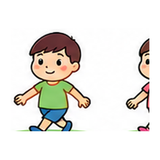
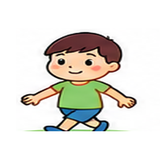
Add asco activity; fix caminar and taparme_nariz crops
- asco.html ("Puaj o me gusta"): its 4 coping actions (agua,
  lugar_tranquilo, taparme_nariz, olor_rico) now use the real M/F/N
  illustrations, same treatment as the other activities.
- Fixed the source crop for caminar (all 3 variants) and taparme_nariz
  (all 3): both had bleed-through from neighboring cells in the
  original sprite sheet. Re-cropped tighter around the actual figure,
  salvaging the girl and neutral variants of caminar from a wider
  frame that happened to contain both intact. caminar no longer needs
  the emoji fallback in enojo.html.
- olor_rico still shows the same neutral drawing for all 3 genders
  (never had real M/F art) - low severity since it always shows a
  valid image, just no visual variety by sex.

diff --git a/emociones-app/activities/asco.html b/emociones-app/activities/asco.html
@@ -1,0 +1,350 @@
+<!DOCTYPE html>
+<html lang="es">
+<head>
+<meta charset="UTF-8" />
+<meta name="viewport" content="width=device-width, initial-scale=1.0" />
+<title>Actividad: Puaj o me gusta</title>
+
+
+<style>
+  :root {
+    --fondo:        #FFF6EC;
+    --tarjeta:      #FFFFFF;
+    --texto:        #3A2A22;
+    --texto-suave:  #8A7266;
+    --asco:         #7FAE3E;   /* verde del asco */
+    --gusto:        #E8799B;   /* rosado del "me gusta" */
+    --calma:        #1D9E75;
+    --calma-suave:  #E1F5EE;
+    --borde:        #F0E3D6;
+  }
+  * { box-sizing: border-box; }
+  body {
+    margin: 0; min-height: 100vh;
+    display: flex; align-items: center; justify-content: center;
+    background: var(--fondo);
+    font-family: 'Nunito', sans-serif; color: var(--texto);
+    padding: 16px;
+  }
+  .tarjeta {
+    width: 100%; max-width: 460px;
+    background: var(--tarjeta);
+    border-radius: 28px; border: 2px solid var(--borde);
+    padding: 26px 22px 30px; text-align: center;
+  }
+  .titulo {
+    font-family: 'Fredoka', sans-serif; font-weight: 600;
+    font-size: 25px; margin: 0 0 6px;
+  }
+  .consigna {
+    font-size: 16px; color: var(--texto-suave);
+    margin: 0 0 8px; min-height: 44px; transition: color 0.3s;
+  }
+  .escena {
+    position: relative;
+    width: 260px; height: 260px; margin: 4px auto 0;
+    display: flex; flex-direction: column; align-items: center; justify-content: center;
+    gap: 12px;
+  }
+  .progreso {
+    position: absolute; top: 4px; right: 8px;
+    font-family: 'Fredoka', sans-serif; font-size: 13px; color: var(--texto-suave);
+  }
+  /* Caja donde aparece la cosa a puntuar (el color de fondo reacciona) */
+  .itemBox {
+    width: 150px; height: 150px; border-radius: 24px;
+    display: flex; align-items: center; justify-content: center;
+    font-size: 84px; line-height: 1;
+    background: #EFEAE0; transition: background 0.2s;
+  }
+  .itemBox img { width: 78%; height: 78%; object-fit: contain; }
+  .itemNombre { font-family: 'Fredoka', sans-serif; font-size: 16px; margin-top: -4px; }
+  .reaccion { display: flex; align-items: center; gap: 8px; }
+  .cara { font-size: 34px; line-height: 1; }
+  .palabra { font-family: 'Fredoka', sans-serif; font-size: 16px; color: var(--texto-suave); }
+
+  /* ----- Barra deslizante (empieza en el medio) ----- */
+  .nivel {
+    display: flex; align-items: center; gap: 10px;
+    max-width: 350px; margin: 12px auto 0;
+    font-family: 'Fredoka', sans-serif; font-size: 14px; color: var(--texto-suave);
+  }
+  .slider {
+    -webkit-appearance: none; appearance: none;
+    flex: 1; height: 16px; border-radius: 999px; outline: none; cursor: pointer;
+    background: linear-gradient(90deg, var(--asco), #E7E0D2 50%, var(--gusto));
+  }
+  .slider::-webkit-slider-thumb {
+    -webkit-appearance: none; appearance: none;
+    width: 36px; height: 36px; border-radius: 50%;
+    background: #fff; border: 5px solid #B7A98C;
+    box-shadow: 0 2px 6px rgba(0,0,0,0.20); cursor: pointer;
+  }
+  .slider::-moz-range-thumb {
+    width: 36px; height: 36px; border-radius: 50%;
+    background: #fff; border: 5px solid #B7A98C;
+    box-shadow: 0 2px 6px rgba(0,0,0,0.20); cursor: pointer;
+  }
+  .slider:disabled { opacity: 0.6; cursor: default; }
+
+  /* ----- Grilla de actividades (2da página) ----- */
+  .actividades {
+    display: none; grid-template-columns: repeat(2, 1fr);
+    gap: 10px; margin-top: 16px;
+  }
+  .actividades.visible { display: grid; }
+  .opcion {
+    display: flex; flex-direction: column; align-items: center; gap: 6px;
+    background: var(--calma-suave); border: 2px solid var(--calma-suave);
+    border-radius: 16px; padding: 12px 6px; cursor: pointer;
+    font-family: 'Fredoka', sans-serif; color: var(--texto);
+    transition: transform 0.1s, border-color 0.2s;
+  }
+  .opcion:hover  { border-color: var(--calma); }
+  .opcion:active { transform: scale(0.95); }
+  .opcion-img {
+    width: 56px; height: 56px; border-radius: 12px; background: #fff;
+    display: flex; align-items: center; justify-content: center;
+    font-size: 32px; line-height: 1;
+  }
+  .opcion-img img { width: 100%; height: 100%; object-fit: contain; border-radius: 12px; }
+  .opcion-txt { font-size: 12px; color: var(--texto-suave); line-height: 1.15; }
+
+  .boton {
+    margin-top: 18px; font-family: 'Fredoka', sans-serif;
+    font-size: 18px; font-weight: 500; color: #fff;
+    background: var(--asco); border: none; border-radius: 999px;
+    padding: 14px 28px; cursor: pointer;
+    transition: filter 0.2s, transform 0.1s;
+  }
+  .boton:hover  { filter: brightness(0.95); }
+  .boton:active { transform: scale(0.96); }
+  .registro {
+    margin: 16px auto 0; font-size: 13px; color: var(--texto-suave);
+    font-family: 'Nunito', sans-serif;
+  }
+</style>
+</head>
+<body>
+
+  <div class="tarjeta">
+    <h1 class="titulo" id="titulo">¿Puaj o me gusta?</h1>
+    <p class="consigna" id="consigna">Movés la barrita según lo que sentís. No hay respuestas correctas.</p>
+
+    <div class="escena" id="escena">
+      <span class="progreso" id="progreso">1 / 5</span>
+      <div class="itemBox" id="itemBox">🥦</div>
+      <div class="itemNombre" id="itemNombre">Brócoli</div>
+      <div class="reaccion">
+        <span class="cara" id="cara">😐</span>
+        <span class="palabra" id="palabra">más o menos</span>
+      </div>
+    </div>
+
+    <div class="nivel">
+      <span>🤢 puaj</span>
+      <input type="range" class="slider" id="slider" min="0" max="10" step="0.1" value="5" aria-label="Cuánto asco o gusto">
+      <span>me gusta 😋</span>
+    </div>
+
+    <div class="actividades" id="actividades"></div>
+
+    <button class="boton" id="boton">Siguiente</button>
+
+    <p class="registro" id="registro">Se registra para Malen: puntuando cosas...</p>
+  </div>
+
+<script>
+/* ================================================================
+   CONFIGURACIÓN
+   ================================================================ */
+const ACTIVIDAD = {
+  emocion: "asco",
+  textos: {
+    inicioTitulo:   "¿Puaj o me gusta?",
+    inicioConsigna: "Movés la barrita según lo que sentís. No hay respuestas correctas.",
+    calmaTitulo:    "¿Qué te ayuda con el asco?",
+    calmaConsigna:  "El asco nos avisa y nos cuida. ¿Qué hacés cuando algo te da mucho puaj?",
+    cierreTitulo:   "¡Muy bien!",
+    cierreConsigna: "Reconocer qué te da asco también es cuidarte."
+  }
+};
+
+/* Las cosas a puntuar. El emoji es provisorio (después van los dibujos). */
+const ITEMS_ASCO = [
+  { id: "brocoli",   nombre: "Brócoli",       emoji: "🥦" },
+  { id: "gusano",    nombre: "Un bicho",      emoji: "🪱" },
+  { id: "media",     nombre: "Media sucia",   emoji: "🧦" },
+  { id: "pescado",   nombre: "Pescado",       emoji: "🐟" },
+  { id: "chocolate", nombre: "Chocolate",     emoji: "🍫" }
+];
+
+/* Las 4 herramientas para el asco. */
+const ACCIONES_ASCO = [
+  { id: "agua",            nombre: "Tomar agua",           emoji: "💧" },
+  { id: "lugar_tranquilo", nombre: "Un lugar tranquilo",   emoji: "🛋" },
+  { id: "taparme_nariz",   nombre: "Taparme la nariz",     emoji: "👃" },
+  { id: "olor_rico",       nombre: "Pensar en un olor rico", emoji: "🌸" }
+];
+
+/* ================================================================
+   ESTADO
+   ================================================================ */
+const estado = {
+  fase: "sacar",
+  indice: 0,               // qué cosa está puntuando
+  valoraciones: [],        // resultados de cada cosa
+  queLoAyudo: null
+};
+
+const el = {
+  titulo:      document.getElementById("titulo"),
+  consigna:    document.getElementById("consigna"),
+  escena:      document.getElementById("escena"),
+  progreso:    document.getElementById("progreso"),
+  itemBox:     document.getElementById("itemBox"),
+  itemNombre:  document.getElementById("itemNombre"),
+  cara:        document.getElementById("cara"),
+  palabra:     document.getElementById("palabra"),
+  slider:      document.getElementById("slider"),
+  actividades: document.getElementById("actividades"),
+  boton:       document.getElementById("boton"),
+  registro:    document.getElementById("registro")
+};
+
+/* ================================================================
+   REACCIÓN Y COLOR SEGÚN LA PUNTUACIÓN
+   ================================================================ */
+function reaccionDe(v) {
+  if (v <= 1) return { cara: "🤢", palabra: "¡qué asco!" };
+  if (v <= 3) return { cara: "😖", palabra: "puaj" };
+  if (v <  7) return { cara: "😐", palabra: "más o menos" };
+  if (v <= 8) return { cara: "🙂", palabra: "me gusta" };
+  return          { cara: "😋", palabra: "¡me encanta!" };
+}
+function categoriaDe(v) {
+  if (v <= 3) return "puaj";
+  if (v >= 7) return "gusta";
+  return "neutral";
+}
+// El fondo de la caja pasa de verde (puaj) a neutro a rosado (me gusta)
+function tinte(v) {
+  const verde = [190,214,132], neutro = [239,234,224], rosa = [247,205,218];
+  let c;
+  if (v <= 5) { const p = v / 5;       c = verde.map((x,i)=> Math.round(x + (neutro[i]-x)*p)); }
+  else        { const p = (v - 5) / 5; c = neutro.map((x,i)=> Math.round(x + (rosa[i]-x)*p)); }
+  return "rgb(" + c[0] + "," + c[1] + "," + c[2] + ")";
+}
+
+function actualizarReaccion() {
+  const v = parseFloat(el.slider.value);
+  const r = reaccionDe(v);
+  el.cara.textContent = r.cara;
+  el.palabra.textContent = r.palabra;
+  el.itemBox.style.background = tinte(v);
+}
+
+/* ================================================================
+   MOSTRAR CADA COSA
+   ================================================================ */
+function mostrarItem() {
+  const item = ITEMS_ASCO[estado.indice];
+  el.itemBox.textContent = item.emoji;   // el día de mañana: <img src="...">
+  el.itemNombre.textContent = item.nombre;
+  el.progreso.textContent = (estado.indice + 1) + " / " + ITEMS_ASCO.length;
+  el.slider.value = 5;                    // ¡siempre arranca en el medio!
+  actualizarReaccion();
+  el.boton.textContent = (estado.indice === ITEMS_ASCO.length - 1) ? "Listo" : "Siguiente";
+}
+
+function siguiente() {
+  // Guarda la puntuación de la cosa actual
+  const item = ITEMS_ASCO[estado.indice];
+  const v = Math.round(parseFloat(el.slider.value));
+  estado.valoraciones.push({ id: item.id, nombre: item.nombre, valor: v, categoria: categoriaDe(v) });
+
+  if (estado.indice < ITEMS_ASCO.length - 1) {
+    estado.indice++;
+    mostrarItem();
+  } else {
+    pasarAAyudas();
+  }
+}
+
+/* ================================================================
+   ARMAR LAS ACTIVIDADES (2da página)
+   ================================================================ */
+const GENERO = (() => {
+  const g = new URLSearchParams(location.search).get('sex');
+  return (g === 'M' || g === 'F') ? g : 'N';
+})();
+function renderActividades() {
+  ACCIONES_ASCO.forEach(accion => {
+    const boton = document.createElement("button");
+    boton.className = "opcion";
+    boton.dataset.id = accion.id;
+    boton.innerHTML =
+      '<span class="opcion-img"><img src="imagenes/' + accion.id + '-' + GENERO + '.png" alt=""></span>' +
+      '<span class="opcion-txt">' + accion.nombre + '</span>';
+    boton.addEventListener("click", () => elegirAyuda(accion.id));
+    el.actividades.appendChild(boton);
+  });
+}
+
+/* ================================================================
+   FASE 2: QUÉ AYUDA CON EL ASCO
+   ================================================================ */
+function pasarAAyudas() {
+  estado.fase = "calma";
+  el.titulo.textContent   = ACTIVIDAD.textos.calmaTitulo;
+  el.consigna.textContent = ACTIVIDAD.textos.calmaConsigna;
+  el.escena.style.display = "none";      // ya no mostramos cosas
+  el.slider.parentElement.style.display = "none";
+  el.actividades.classList.add("visible");
+  el.boton.style.display = "none";
+
+  const puaj = estado.valoraciones.filter(x => x.categoria === "puaj").length;
+  el.registro.textContent = "Se registra para Malen: " + puaj + " cosas le dieron puaj";
+}
+
+/* ================================================================
+   FASE 3: CIERRE
+   ================================================================ */
+function elegirAyuda(id) {
+  if (estado.fase !== "calma") return;
+  const accion = ACCIONES_ASCO.find(a => a.id === id);
+  estado.queLoAyudo = accion ? accion.nombre : id;
+  estado.fase = "cierre";
+  el.titulo.textContent   = ACTIVIDAD.textos.cierreTitulo;
+  el.consigna.textContent = ACTIVIDAD.textos.cierreConsigna;
+  el.consigna.style.color = "var(--calma)";
+  el.actividades.classList.remove("visible");
+
+  const resultado = {
+    emocion: ACTIVIDAD.emocion,
+    valoraciones: estado.valoraciones,     // qué le da puaj y qué le gusta
+    queLoAyudo: id,
+    queLoAyudoNombre: estado.queLoAyudo,
+    fecha: new Date().toISOString()
+  };
+  console.log("Resultado de la sesión:", resultado);
+  if (window.parent !== window) { window.parent.postMessage(Object.assign({ type: "activity-complete" }, resultado), "*"); }
+  const puaj = estado.valoraciones.filter(x => x.categoria === "puaj").length;
+  el.registro.textContent =
+    "Guardado en la ficha: " + puaj + " cosas le dieron puaj · lo ayuda " +
+    resultado.queLoAyudoNombre.toLowerCase();
+}
+
+/* ================================================================
+   CONEXIONES Y ARRANQUE
+   ================================================================ */
+renderActividades();
+el.slider.addEventListener("input", actualizarReaccion);
+el.boton.addEventListener("click", siguiente);
+
+el.titulo.textContent   = ACTIVIDAD.textos.inicioTitulo;
+el.consigna.textContent = ACTIVIDAD.textos.inicioConsigna;
+mostrarItem();
+</script>
+</body>
+</html>

diff --git a/emociones-app/activities/enojo.html b/emociones-app/activities/enojo.html
@@ -265,21 +265,14 @@ const GENERO = (() => {
   return (g === 'M' || g === 'F') ? g : 'N';
 })();
 
-/* Acciones sin un recorte de imagen confiable todavía: se muestran
-   con un emoji de reserva hasta que llegue el archivo corregido. */
-const SIN_IMAGEN_CONFIABLE = { caminar: '🚶' };
-
 /* ------------------ ARMAR LAS ACTIVIDADES ------------------ */
 function renderActividades() {
   ACCIONES_ENOJO.forEach(accion => {
     const boton = document.createElement("button");
     boton.className = "opcion";
     boton.dataset.id = accion.id;
-    const emojiReserva = SIN_IMAGEN_CONFIABLE[accion.id];
     boton.innerHTML =
-      (emojiReserva
-        ? '<span class="opcion-img" style="font-size:32px;">' + emojiReserva + '</span>'
-        : '<span class="opcion-img"><img src="imagenes/' + accion.id + '-' + GENERO + '.png" alt=""></span>') +
+      '<span class="opcion-img"><img src="imagenes/' + accion.id + '-' + GENERO + '.png" alt=""></span>' +
       '<span class="opcion-txt">' + accion.nombre + '</span>';
     boton.addEventListener("click", () => elegirAyuda(accion.id));
     el.actividades.appendChild(boton);

diff --git a/emociones-app/js/data.js b/emociones-app/js/data.js
@@ -154,6 +154,7 @@ const ACTIVITIES = {
   tristeza: 'activities/tristeza.html',
   envidia: 'activities/envidia.html',
   alegria: 'activities/alegria.html',
+  asco: 'activities/asco.html',
 };
 
 function getActivity(emotionId) {
